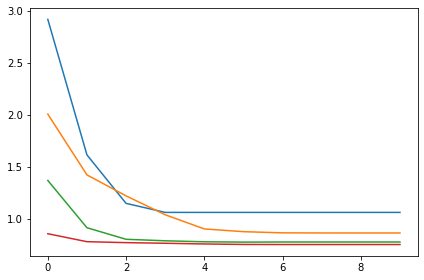
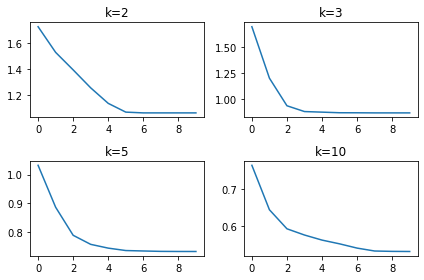
Finish assignement 7

diff --git a/07_K_means/template.py b/07_K_means/template.py
@@ -136,19 +136,19 @@ def _plot_j():
 
 
 def _plot_multi_j():
-    k_values = [2, 3, 4, 5]
+    k_values = [2, 3, 5, 10]
+    counter = 1
     for i, k in enumerate(k_values):
         _, _, js = k_means(X, k, num_its=10)
+        plt.subplot(2, 2, counter)
+        plt.title(f'k={k}')
         plt.plot(js)
+        counter+=1
+    plt.tight_layout()
     plt.show()
 
 
-def k_means_predict(
-    X: np.ndarray,
-    t: np.ndarray,
-    classes: list,
-    num_its: int
-) -> np.ndarray:
+def k_means_predict(X: np.ndarray, t: np.ndarray, classes: list, num_its: int) -> np.ndarray:
     '''
     Determine the accuracy and confusion matrix
     of predictions made by k_means on a dataset
@@ -164,29 +164,55 @@ def k_means_predict(
     Returns:
     * the predictions (list)
     '''
-    pass
+    Mu, r, _ = k_means(X, len(classes), num_its)
+    cluster_targets = np.argmax(r, axis=1)
+
+    cluster_class = {}
+    for class_label in classes:
+        number_cluster = np.bincount(cluster_targets[t == class_label])
+        most_common_cluster = np.argmax(number_cluster)
+        cluster_class[most_common_cluster] = class_label
+
+    k_predictions = []
+    for cluster in cluster_targets:
+        prediction = cluster_class.get(cluster, None)
+        if prediction is not None:
+            k_predictions.append(prediction)
+        
+    return np.array(k_predictions)
+
 
 
 def _iris_kmeans_accuracy():
-    pass
+    X, y, _ = load_iris()
+    class_predictions = k_means_predict(X, y, np.unique(y), 5)
+    accuracy = accuracy_score(y, class_predictions)
+    confusion = confusion_matrix(y, class_predictions)
+    return accuracy, confusion
 
 
 def _my_kmeans_on_image():
-    pass
+    image, (w, h) = image_to_numpy()
+    print(k_means(image, 7, 5))
+
 
 
 def plot_image_clusters(n_clusters: int):
     '''
     Plot the clusters found using sklearn k-means.
     '''
-    image, (w, h) = image_to_numpy()
-    ...
-    plt.subplot('121')
-    plt.imshow(image.reshape(w, h, 3))
-    plt.subplot('122')
-    # uncomment the following line to run
-    # plt.imshow(kmeans.labels_.reshape(w, h), cmap="plasma")
-    plt.show()
+    # Load the image and convert it to a compatible numpy array
+    image, _ = image_to_numpy()
+
+    kmeans = KMeans(n_clusters=n_clusters, random_state=0, n_init=5, max_iter=100)
+    cluster_labels = kmeans.fit_predict(image)
+
+    print(cluster_labels)
+
+    gmm = GaussianMixture(n_components=n_clusters)
+    gmm.fit(image)
+    plot_gmm_results(image, cluster_labels, gmm.means_, gmm.covariances_)
+    
 
 if __name__ == '__main__':
     
@@ -240,4 +266,21 @@ if __name__ == '__main__':
     
     print("\n[+]Part 1.7: Plotting ...")
     _plot_multi_j()
+    
+    print("\n[+]Part 1.9")
+    X, y, c = load_iris()
+    print(k_means_predict(X, y, c, 5))
+    
+    print("\n[+]Part 1.10")
+    accuracy, confusion = _iris_kmeans_accuracy()
+    print(accuracy)
+    print(confusion)
+      
+    print("\n[+]Part 2.1")
+    #print(_my_kmeans_on_image())
+    
+    print("\n[+]Part 2.1.1")
+    num_clusters = [2, 5, 10, 20]
+    for num in num_clusters:
+        plot_image_clusters(num)
     
